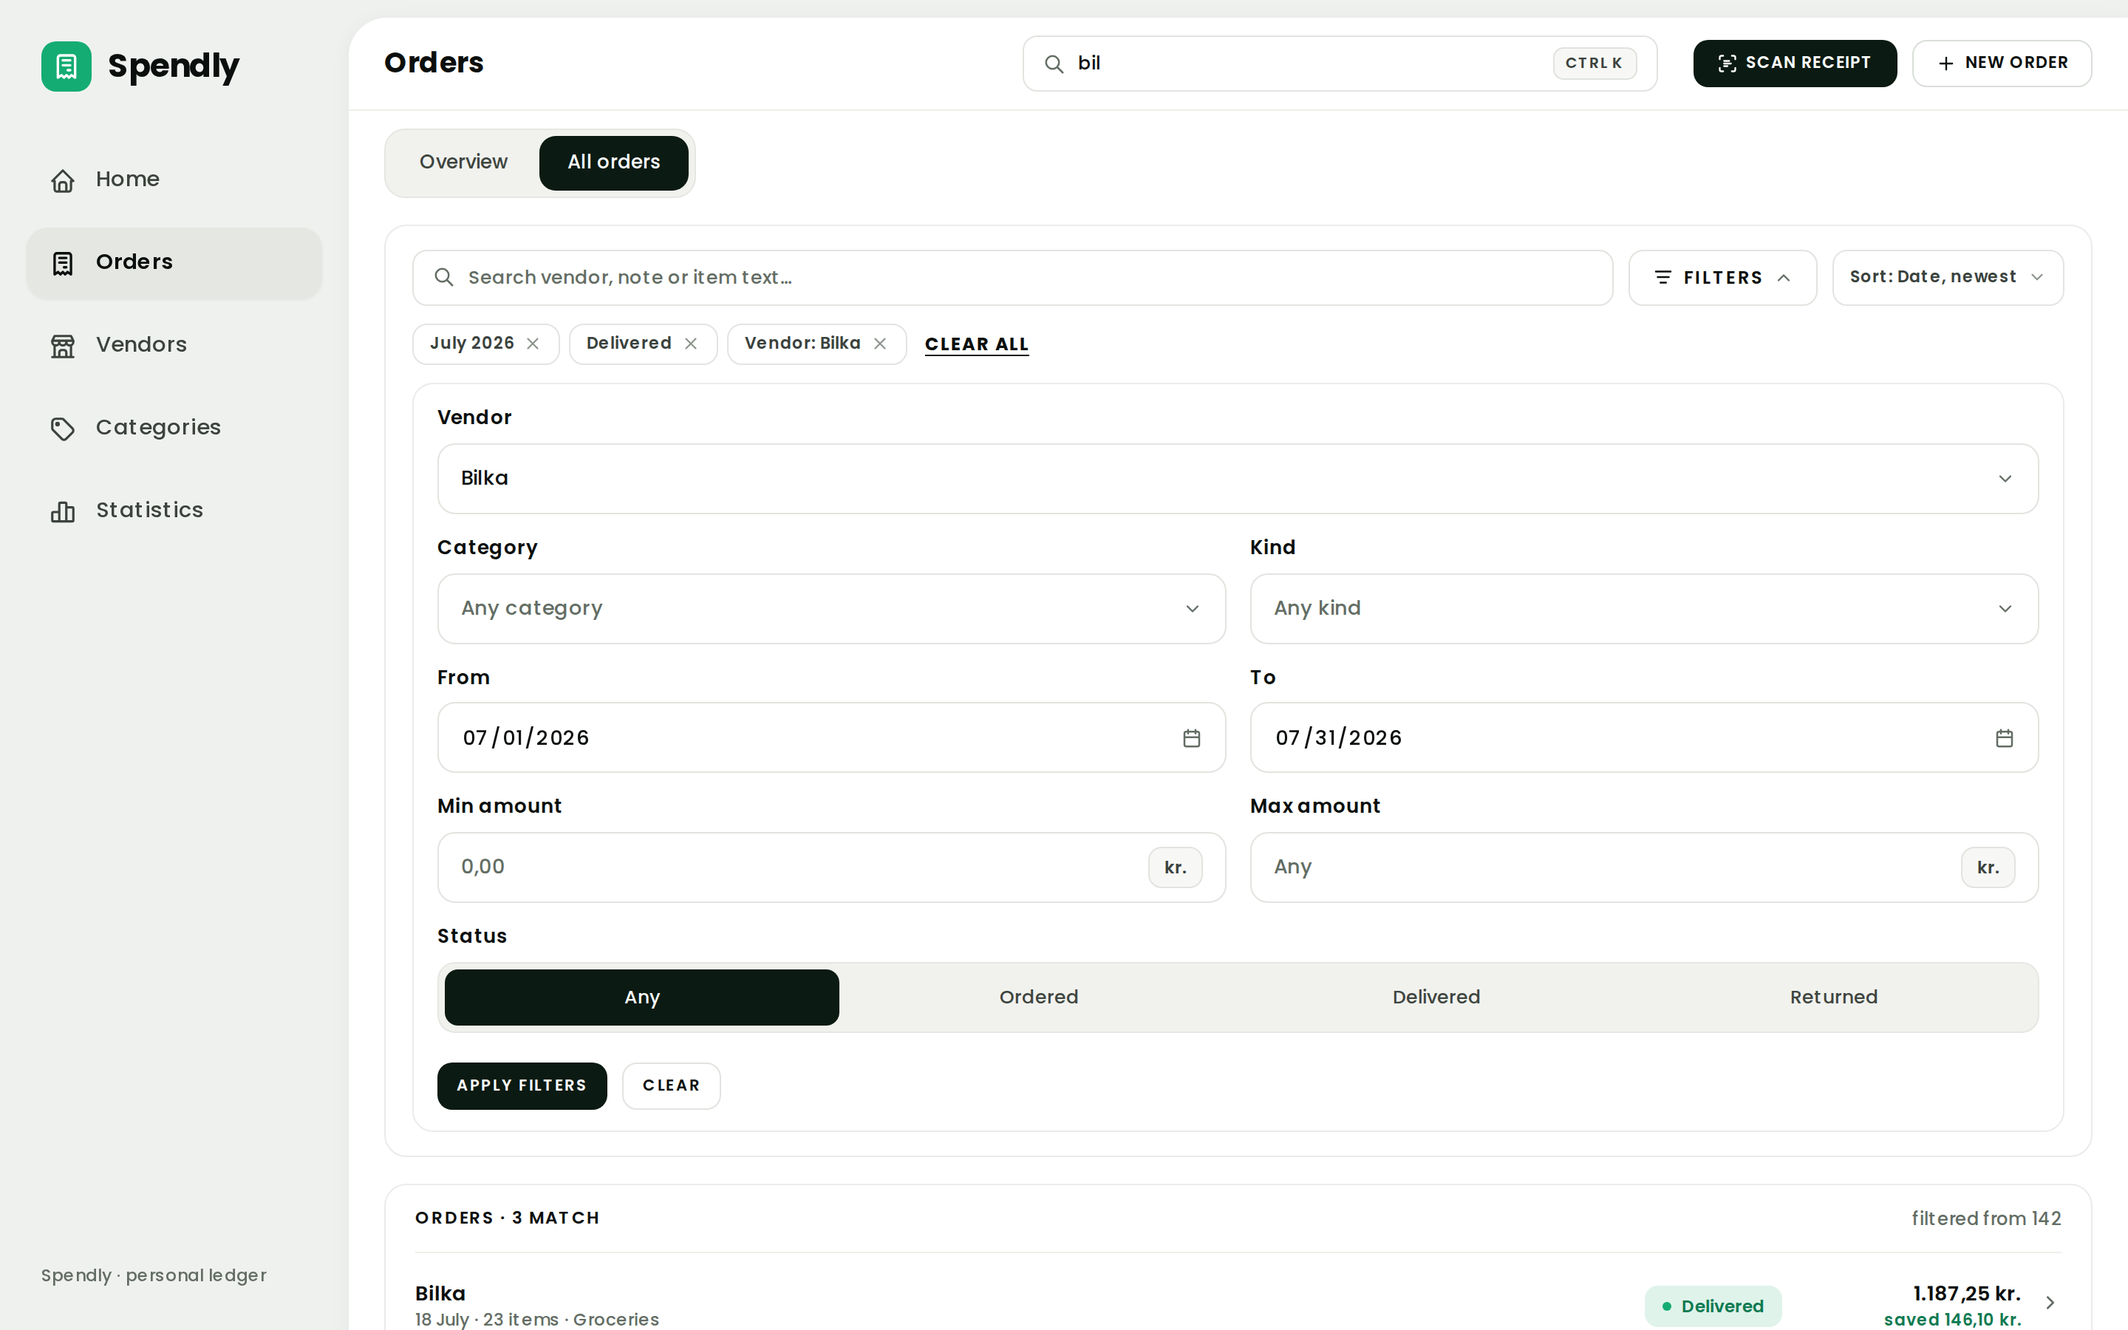
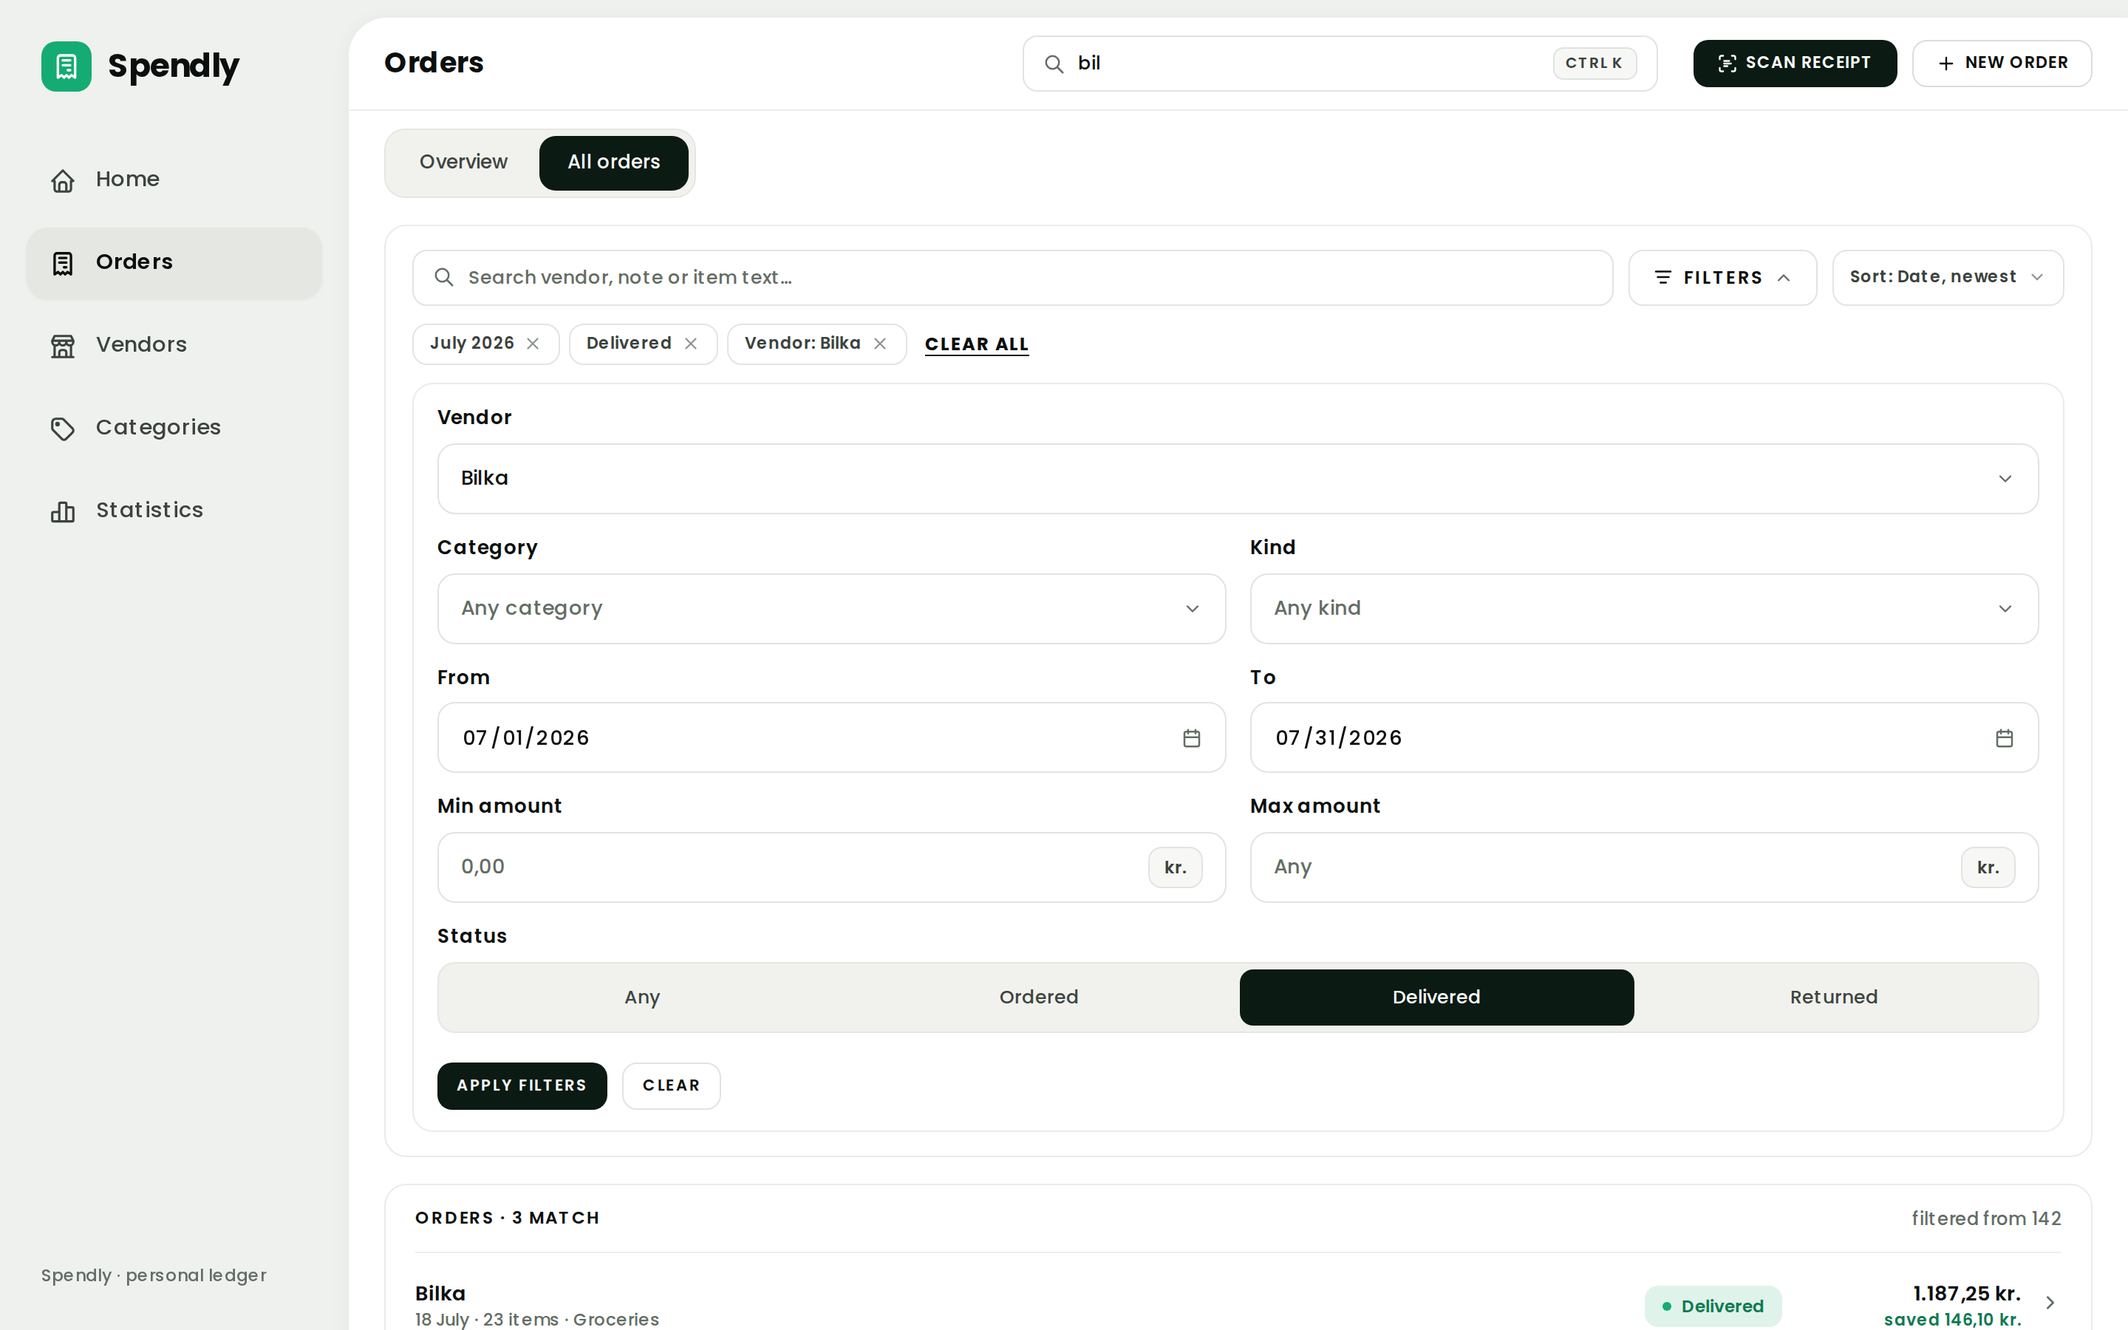
Rules in the README, evidence in a defect log, and Status says Delivered
The README was carrying case histories: each rule arrived with the bug that
bought it, its measurements and its before-and-after, which makes the design
system a document you read for the debugging rather than for the spec. The
rules stay, in general terms; the evidence moves to docs/defects.md, keyed to
the section it defends rather than to a date, and the rule links to it. Older
entries are still inline -- they move as the sections around them are next
touched, since a rule rewritten while nobody is looking at it is a rule nobody
re-verified.

The design system also names no implementation now. Which framework, router or
bundler renders it is a decision downstream of the document and it changes; the
port's own choices, its build and its measurements belong with the port. Two
Blazor references and section 20 are still standing and are not covered by this
pass.

And the prototype was demonstrating the defect it now forbids: the chip row
says the list is filtered to Delivered while the Status control read Any. It
reads Delivered. docs/all-orders.png is regenerated for it -- 80,716 differing
pixels of 5,184,000, all inside x 602-2211, y 1312-1387, which is the two pills
that swapped: the track measures 1084x48 before and after, so nothing moved.
Rendered in this container, Chromium 141.0.7390.37 under Playwright 1.56.1,
which reproduces the previous file at 0 of 5,184,000 -- so the new file carries
the edit and not a second machine's text rasterisation.
[…]

Changed region(s): [[0.5625, 0.7156, 0.7812, 0.7778], [0.1875, 0.7156, 0.4062, 0.7778]]

diff --git a/spendly.html b/spendly.html
@@ -1907,10 +1907,13 @@ svg.icon.chevron-icon { width:14px; height:14px; }
 							<label class="field"><span>Max amount</span><div class="field-shell"><input type="text" inputmode="decimal" placeholder="Any" aria-label="Maximum amount"><span class="field-unit">kr.</span></div></label>
 						</div>
 						<div class="field"><span>Status</span>
+							<!-- Delivered, because a chip above says the list is filtered to it. A panel
+							     that reads Any over a filtered list is the defect this page's own chips
+							     made visible: the field is what the next APPLY is built from. S13. -->
 							<div class="segmented segmented-compact" role="tablist">
-								<button type="button" class="is-on" role="tab" aria-selected="true">Any</button>
+								<button type="button" role="tab" aria-selected="false">Any</button>
 								<button type="button" role="tab" aria-selected="false">Ordered</button>
-								<button type="button" role="tab" aria-selected="false">Delivered</button>
+								<button type="button" class="is-on" role="tab" aria-selected="true">Delivered</button>
 								<button type="button" role="tab" aria-selected="false">Returned</button>
 							</div></div>
 						<div class="form-actions">

diff --git a/README.md b/README.md
@@ -51,8 +51,15 @@ there.
 - **Verification standard**: every rule here was settled by rendering the prototype and comparing
   screenshots against the reference sheets, then re-rendering at 390px and on desktop after each
   change. Hold to the same standard: screenshot before claiming a match, and say what was measured.
-- **Where a rule cost a bug, the bug is written down with it.** That is the argument for the rule and
-  the reason not to quietly undo it.
+- **This document is rules, not case histories.** Where a rule cost a bug, the bug and its numbers go
+  in [`docs/defects.md`](docs/defects.md) and the rule links to them — that is the argument for the
+  rule and the reason not to quietly undo it, and it is not the spec. A reader who needs to know what
+  the UI must do should not have to read a defect report to find it. Older entries are still inline
+  here; they move as the sections around them are touched.
+- **The design system names no implementation.** It describes what the UI must do, in markup, CSS and
+  behaviour. Which framework, router or bundler renders it is a decision downstream of this document
+  and may change — the port's own choices, its build and its measurements live with the port
+  ([`react/README.md`](react/README.md) today).
 - **Before adding a variant, count.** Grep for the pattern and match the tally, not the one neighbour
   you happened to be looking at.
 
@@ -723,14 +730,10 @@ second floor under it, since a form that never rejects a value is also a form th
   — spacing only — and green amounts right.
 - SEE ALL is the 44px full-width outline button at the card foot. Underlined caps links
   (`.button-link`) appear only inside empty states.
-- **A tinted note and the action under it are 12px apart, and the gap belongs to the note.**
-  `.note + .button { margin-top: 12px }`. The question card's answered state — the green answer, then
-  SEE THOSE ORDERS — drew the button **flush against the note, 0px measured**, while the same pair one
-  card over stood correctly at 12: `.button.button-block` declares a 12px top margin of its own and
-  `.button.button-ghost` declares none, so the spacing depended on which variant the answer happened
-  to be followed by. Spacing between two blocks is not a property of one of them. Set from the note,
-  the pair is 12px whichever button follows it, and the block variant's own margin computes to the
-  same 12 rather than to 24.
+- **A tinted note and the action under it are 12px apart, and the gap belongs to the note**
+  (`.note + .button`). Spacing between two blocks is not a property of one of them: set on the button,
+  it becomes whatever that variant happens to declare, and the outline and full-width variants do not
+  agree. [Defect log](docs/defects.md#10-cards--a-note-and-the-action-under-it).
 - Empty states: loop glyph, one sentence, underlined caps action.
 - Exactly **one dark card per screen** — the AI/contextual slot.
 - A card header that navigates gets the chevron **and** the standard `.card-divider` hairline. The tally
@@ -1026,25 +1029,20 @@ instance below shipped because a shape was copied from the reference without ask
   border, an icon and no handler — the decorative-control rule again, in its hardest form to spot,
   because this document already said the button toggled the panel and the screenshot showed both. The
   button carries `aria-expanded`, `aria-controls` names the panel, and the panel is `hidden` when
-  collapsed. **It starts collapsed.** It started open on the argument that a link arriving with a
-  filter set would otherwise land on a panel hiding it — but the chip row states every filter that is
-  on, so the closed panel hides no state, and the open one puts 8 fields and a segmented control
-  between the search field and the orders they filtered. A disclosure whose default is open is a
-  panel with a button on it. **The label is the
+  collapsed. **It starts collapsed** — a disclosure whose default is open is a panel with a button on
+  it, and open this one puts 8 fields and a segmented control between the search field and the orders
+  they filtered. **The label is the
   same string in both states** — the chevron rotates instead. "HIDE FILTERS" is wider than "FILTERS",
   and the search beside it is `flex:1` in a `nowrap` row, so a changing label would move the search on
   every click: the segmented control's rule ([§9](#9-forms-and-fields)) arriving from the button side.
-- **A filter panel shows the filter its list is under.** Every link into All orders speaks the query
-  string — a category tile, a vendor card, a chart legend row, the answer to the question of the day —
-  and what it carries is ids: `?category=c-groceries`. So the chips read *Category: Groceries*, the
-  results line read 11 match of 23, and the panel's own Vendor and Category comboboxes read **Any
-  vendor** and **Any category**, because a combobox displays a name and the URL holds none. Two
-  controls describing one filter with one of them saying it is off — and the field is the one a user
-  edits, so the next APPLY was liable to be made from what the panel claimed rather than from what the
-  list was. Both fields resolve their id through the same lookup the chips use, so a chip and a field
-  cannot name one filter differently; every other filter (kind, from/to, min/max, status) is its own
-  value in the query string and needs none. This is the half that has to be true before the panel is
-  allowed to start closed, since opening it is how you check what a link set.
+- **A filter panel shows the filter its list is under.** A list can be arrived at already filtered —
+  from a category tile, a vendor card, a chart legend row, the answer to the question of the day — and
+  when it is, the panel's own fields state those filters, not *Any vendor* over a list that is one
+  vendor's. The chips and the fields name one filter the same way, because a field is the control a
+  user edits from and a panel describing a filter it is not showing sends the next APPLY out with the
+  wrong values. This is what has to be true before a panel is allowed to start closed: opening it is
+  how you check what a link set.
+  [Defect log](docs/defects.md#13-honest-affordances--filters-starts-closed-and-the-panel-shows-the-filter).
 - **A switch that reveals a panel is a disclosure wearing a different shape, and owes the same
   wiring.** "More details?" carried `role="switch" aria-checked="true"`, sat above the optional
   fields it names, and toggled nothing -- the decorative-control rule in the one form no screenshot

diff --git a/docs/defects.md b/docs/defects.md
@@ -1,0 +1,86 @@
+# Defects, and the rules they bought
+
+`README.md` states the design system as rules. This file is where the evidence lives: the defect that
+bought a rule, the numbers that settled it, and what was measured after the fix. Two documents, one
+job each — a reader who wants to know *what the UI must do* should not have to read a case history to
+find it, and a reader who wants to know *why a rule is not negotiable* should be able to find that
+without it being folded into the spec.
+
+**What belongs here.** The bug, in the state it happened. The measurement, with its units and its
+denominator. The instrument, and the engine it ran in. What was checked and what was not.
+
+**What belongs in the README.** The rule, in general terms, in the section that owns it — and a
+pointer here when the rule looks arbitrary without its history.
+
+**Neither document names an implementation.** A defect is described in the UI's own terms; the build
+it was seen in is named only as part of the evidence, the same way the engine and the viewport are.
+Anything true of one port and not of the product belongs in that port's own README.
+
+**This is not a changelog.** Entries are keyed to the README section they defend, not to a date or a
+release, and one entry may be edited by a later fix that sharpens the same rule. Nothing here records
+that work happened; it records what is true and how that was established.
+
+Older detail still sits inline in `README.md`, written before this file existed. It moves here when
+the section it is in is next touched, rather than in one sweep — a rule rewritten while nobody is
+looking at it is a rule nobody re-verified.
+
+---
+
+## §10 Cards — a note and the action under it
+
+The question card's answered state — the green answer, then SEE THOSE ORDERS — drew the button **flush
+against the note, 0px measured**. `.button.button-block` declares a 12px top margin of its own and
+`.button.button-ghost` declares none, so the gap depended entirely on which variant the answer
+happened to be followed by: the same pair on Orders / Overview stood correctly at 12 because the
+button there was the block variant.
+
+The fix sets the gap from the note (`.note + .button { margin-top: 12px }`), so the pair is 12px
+whichever button follows it. The block variant's own margin computes to the same 12 rather than to 24
+— equal specificity, and the note rule is later in the file.
+
+Measured after, in Blink 141.0.7390.37 at 1440x900: the four children of `.card-question` sit at
+9.3 / 12 / 12, the ghost button's computed `margin-top` is 12px where it was 0, and the block pair on
+Orders is 12. The rule matches no element in the prototype's own markup — its two notes are followed
+by field rows — so none of the three committed screenshots moved: **0 differing pixels of
+11,403,840**.
+
+## §13 Honest affordances — FILTERS starts closed, and the panel shows the filter
+
+Two halves of one defect, and the first could not land before the second was true.
+
+**The panel opened on arrival.** The argument for it was that a link could arrive carrying a filter
+the closed panel would hide. Open, it is 8 fields and a segmented control standing between the search
+field and the orders they filtered.
+
+**The panel did not show the filter the list was under.** Every link into All orders arrives carrying
+the filters it wants — a category tile, a vendor card, a chart legend row, the answer to the question
+of the day — and what it names them by is ids, `category=groceries&vendor=bilka`. The chips read
+*Vendor: Bilka* and
+*Category: Groceries*, the results line read `Orders · 4 match`, and the panel's own Vendor and
+Category comboboxes read **Any vendor** and **Any category**, because a combobox displays a name and
+the URL holds none. Two controls describing one filter with one of them saying it was off — and the
+field is the one a user edits, so the next APPLY was liable to be made from what the panel claimed
+rather than from what the list was. Every other filter (kind, from/to, min/max, status) is its own
+value in the query string and needed no lookup, which is why only these two were wrong.
+
+Both fields now resolve their id through the same lookup the chips use, so a chip and a field cannot
+name one filter differently.
+
+Measured after, in Blink 141.0.7390.37 at 1440x900, arriving at All orders with
+`category=groceries&vendor=bilka` on it (in the React port, which is where the two comboboxes are
+driven from data — the prototype's are static markup and were set to match):
+
+| | on arrival | after one click on FILTERS |
+| --- | --- | --- |
+| `aria-expanded` | `false` | `true` |
+| panel | `hidden`, computes `display: none` | `display: grid` |
+| Vendor field | — | `Bilka` (read empty before) |
+| Category field | — | `Groceries` (read empty before) |
+| Kind / From / To / Status | — | empty, `Any` — as the URL has them |
+
+The chip row states both filters in both states, over `Orders · 4 match`. No console or page errors.
+Gecko and WebKit are not installed in this container and were not checked.
+
+`docs/all-orders.png` is the panel showing, which is now the state reached by clicking FILTERS rather
+than the state the page loads in. Rendered that way it reproduces the committed file at **0 differing
+pixels of 5,184,000**, so the screenshot still documents what it claims and needed no regenerating.

diff --git a/CLAUDE.md b/CLAUDE.md
@@ -2,19 +2,29 @@
 
 Spendly is one prototype and its documentation. `spendly.html` is the entire prototype — every route,
 markup, CSS, JS and three Poppins weights as woff2 data URIs, with no build, no dependencies and no
-network. `README.md` is the design system it proves, and `docs/` holds the screenshots that document
-shows. Opening the HTML in a browser is the whole toolchain.
+network. `README.md` is the design system it proves; `docs/` holds the screenshots that document shows
+and the defect log its rules link to. Opening the HTML in a browser is the whole toolchain.
 
 ## Division of labour
 
-- **`README.md` holds rules about the product** — what the UI must do, numbered by section, written to
-  survive the port to Blazor. If a developer who never opens this file would need it, it is a README
-  rule.
+Four documents, one job each. Putting a paragraph in the wrong one is how the same rule ends up
+stated twice and obeyed once.
+
+- **`README.md` is the design system** — what the UI must do, in general terms, numbered by section.
+  Rules, not case histories: a reader who needs to know what a control must do should not have to
+  read a defect report to find it. It names **no implementation** — not a framework, a router or a
+  bundler. Those are decisions downstream of it and they change; the design system outlives them.
+- **`docs/defects.md` is the evidence** — the defect a rule cost, the numbers that settled it, the
+  instrument and the engine. A README rule that looks arbitrary without its history links here. This
+  is not a changelog: entries are keyed to the section they defend, never to a date.
+- **A port's own README is the port's own business** — its framework, its build, its chunking, its
+  measurements. `react/README.md` today; something else tomorrow. Nothing in it is a rule about the
+  product.
 - **This file holds rules about the work** — how to verify, what counts as done, what may be claimed.
   Nothing here describes the UI.
-- **A fix usually teaches both.** The rule goes to the README, with the bug that bought it, per that
-  document's ground rule. How the bug got past us comes here. Do not copy the design system into this
-  file; do not copy working procedure into that one.
+- **A fix usually teaches three of them.** The rule goes to the README in general terms, the bug and
+  its numbers to `docs/defects.md`, and how the bug got past us comes here. Do not copy the design
+  system into this file; do not copy working procedure into that one; do not narrate a fix in either.
 
 ## Verification
 
